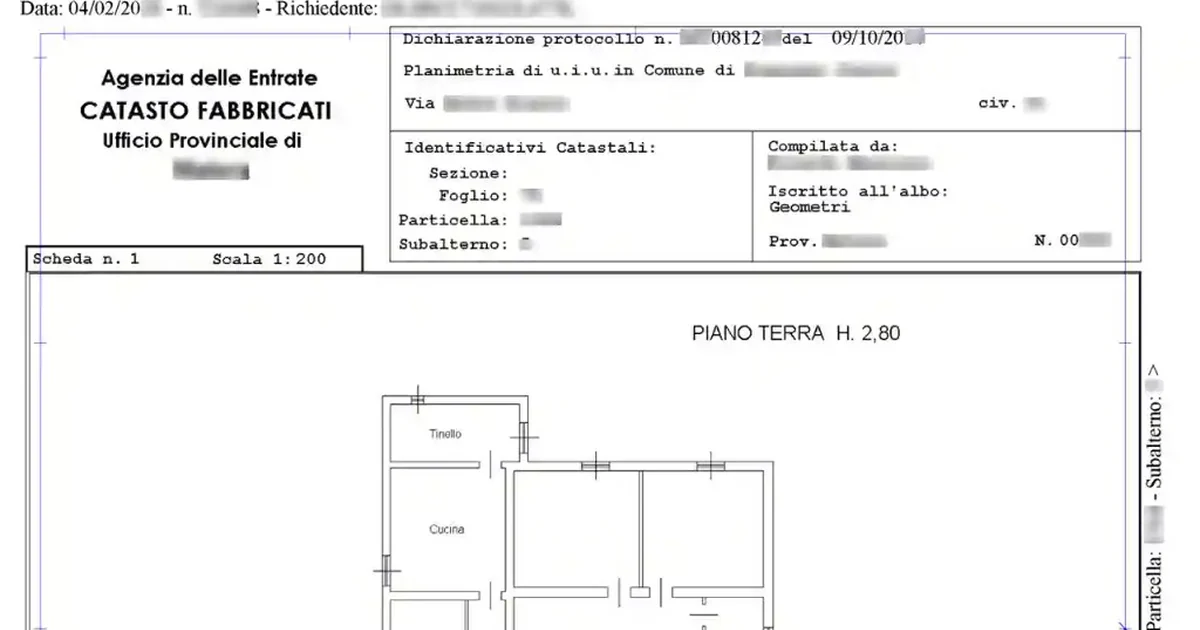
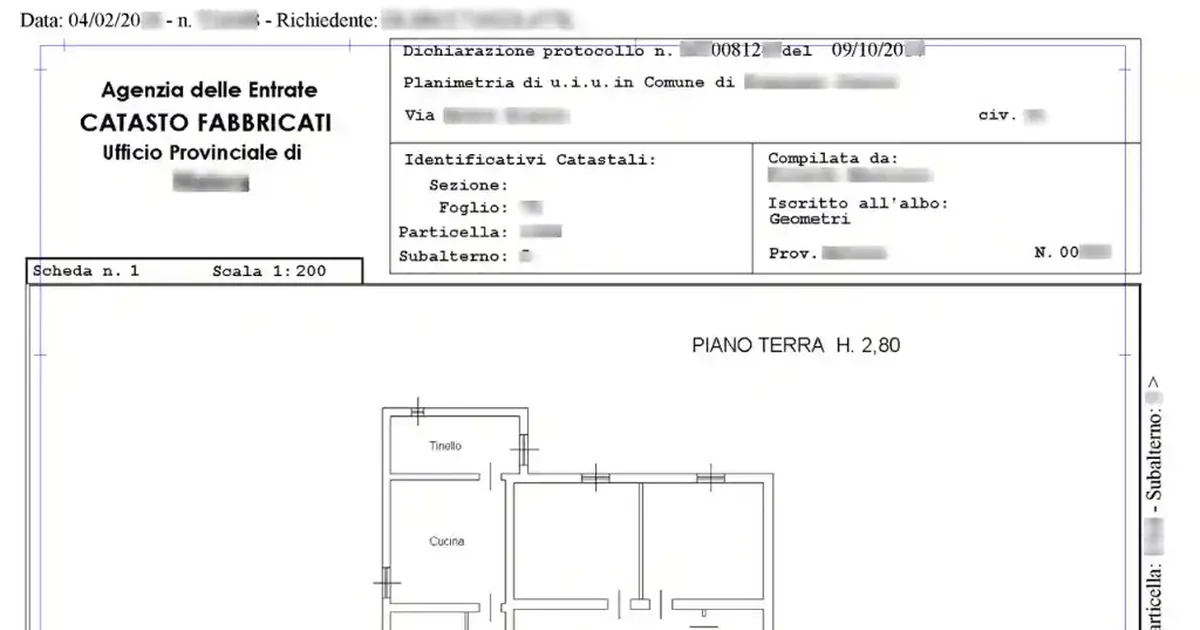
Hero blog aprile 2026: ritaglio con ancore focali (object-position) e WebP rigenerati
Made-with: Cursor

diff --git a/scripts/import_blog_heroes_apr2026.py b/scripts/import_blog_heroes_apr2026.py
@@ -19,26 +19,37 @@ ASSETS = Path(
 OUT = Path(__file__).resolve().parent.parent / "img" / "blog"
 TARGET_W, TARGET_H = 1200, 630
 
+# (file_png, file_webp, anchor_x, anchor_y) con anchor in [0,1]: come object-position (0=sinistra/alto, 1=destra/basso)
 PAIRS = [
     (
         "c__Users_Utente_AppData_Roaming_Cursor_User_workspaceStorage_02d993d5cc19e4bea5396422fd725780_images_planimetria-catastale-rasterizzata1-752282081-4d36fb39-457e-4449-9f0f-8e5d74fa63d0.png",
         "blog-planimetria-catasto-padova-2026.webp",
+        0.5,
+        0.22,
     ),
     (
         "c__Users_Utente_AppData_Roaming_Cursor_User_workspaceStorage_02d993d5cc19e4bea5396422fd725780_images_Casa_ecologica_in_costruzione_con_pannelli_solari-55862b8b-ad5f-499a-a349-6828c395751f.png",
         "blog-ape-acquisto-padova-2026.webp",
+        0.52,
+        0.48,
     ),
     (
         "c__Users_Utente_AppData_Roaming_Cursor_User_workspaceStorage_02d993d5cc19e4bea5396422fd725780_images_come-funziona-la-permuta-immobiliare-2042395926-b9fb2051-a730-493d-85d1-f4b4c0b589cb.png",
         "blog-permuta-immobiliare-padova-2026.webp",
+        0.5,
+        0.58,
     ),
     (
         "c__Users_Utente_AppData_Roaming_Cursor_User_workspaceStorage_02d993d5cc19e4bea5396422fd725780_images_Esposizione_di_auto_depoca_in_villa_storica-8eafe550-c775-47e0-8ddf-54198a0f6031.png",
         "blog-piazzola-brenta-mercato-2026.webp",
+        0.5,
+        0.32,
     ),
     (
         "c__Users_Utente_AppData_Roaming_Cursor_User_workspaceStorage_02d993d5cc19e4bea5396422fd725780_images_vigonza-f994ae7f-bde4-4f76-ad20-ac17be216733.png",
         "blog-vigonza-rubano-cintura-2026.webp",
+        0.58,
+        0.45,
     ),
 ]
 
@@ -53,14 +64,24 @@ def to_rgb(im: Image.Image) -> Image.Image:
     return im.convert("RGB")
 
 
-def cover_resize(img: Image.Image, tw: int, th: int) -> Image.Image:
+def cover_resize(
+    img: Image.Image,
+    tw: int,
+    th: int,
+    anchor_x: float = 0.5,
+    anchor_y: float = 0.5,
+) -> Image.Image:
+    ax = min(1.0, max(0.0, anchor_x))
+    ay = min(1.0, max(0.0, anchor_y))
     src_w, src_h = img.size
     scale = max(tw / src_w, th / src_h)
     new_w = int(round(src_w * scale))
     new_h = int(round(src_h * scale))
     img = img.resize((new_w, new_h), Image.Resampling.LANCZOS)
-    left = (new_w - tw) // 2
-    top = (new_h - th) // 2
+    max_left = max(0, new_w - tw)
+    max_top = max(0, new_h - th)
+    left = int(round(max_left * ax))
+    top = int(round(max_top * ay))
     return img.crop((left, top, left + tw, top + th))
 
 
@@ -68,13 +89,17 @@ def main() -> None:
     if not ASSETS.is_dir():
         raise SystemExit(f"Cartella assets non trovata: {ASSETS}")
     OUT.mkdir(parents=True, exist_ok=True)
-    for src_name, dst_name in PAIRS:
+    for row in PAIRS:
+        src_name, dst_name = row[0], row[1]
+        anchor_x, anchor_y = (0.5, 0.5) if len(row) < 4 else (float(row[2]), float(row[3]))
         src = ASSETS / src_name
         if not os.path.isfile(_open_path(src)):
             raise SystemExit(f"Manca il file sorgente: {src}")
         with Image.open(_open_path(src)) as im:
             rgb = to_rgb(im)
-            out_img = cover_resize(rgb, TARGET_W, TARGET_H)
+            out_img = cover_resize(
+                rgb, TARGET_W, TARGET_H, anchor_x=anchor_x, anchor_y=anchor_y
+            )
         out_path = OUT / dst_name
         out_img.save(out_path, "WEBP", quality=86, method=6)
         kb = out_path.stat().st_size // 1024
